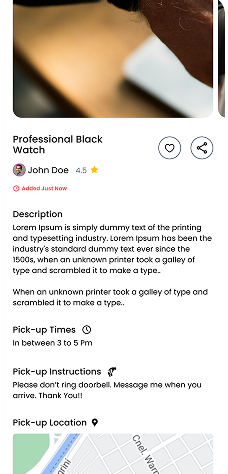
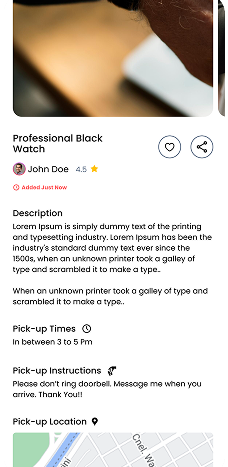
final update

diff --git a/assets/js/main.js b/assets/js/main.js
@@ -1,11 +1,14 @@
 $(document).ready(function () {
-    $('.center').slick({
+    let slider = $('.center');
+
+    slider.slick({
         centerMode: true,
         arrows: true,
         dots: true,
         autoplay: true,
         autoplaySpeed: 3000,
         slidesToShow: 5,
+        infinite: true,
         responsive: [
             {
                 breakpoint: 1024,
@@ -26,31 +29,33 @@ $(document).ready(function () {
         ]
     });
 
-    // Function to update timer
+    let timerElement = $('<div class="slider-timer">3s</div>');
+    $('.mobilescreenslider').append(timerElement);
+
+    let interval;
     function startSliderTimer() {
-        let timeLeft = 3; // Start from 3 seconds
-        let timerElement = $('<div class="slider-timer">3s</div>');
+        let timeLeft = 3; // Start from 3s
+        $('.slider-timer').text(timeLeft + "s");
 
-        // Append timer to the current active slide
-        $('.mobilescreenslider').append(timerElement);
-
-        let interval = setInterval(() => {
+        interval = setInterval(() => {
             timeLeft--;
-            if (timeLeft <= 0) {
-                timeLeft = 3; // Reset timer after 3s
+            if (timeLeft < 0) {
+                clearInterval(interval); // Stop countdown at 0
+                slider.slick('slickNext'); // Move to the next slide manually
+                return;
             }
             $('.slider-timer').text(timeLeft + "s");
         }, 1000);
-
-        $('.center').on('beforeChange', function () {
-            clearInterval(interval); // Stop old timer
-            $('.slider-timer').remove(); // Remove old timer
-        });
-
-        $('.center').on('afterChange', function () {
-            startSliderTimer(); // Restart timer for new slide
-        });
     }
 
-    startSliderTimer(); // Start on load
+    slider.on('beforeChange', function () {
+        clearInterval(interval); // Stop old timer
+        $('.slider-timer').text("0s"); // Stay at 0s during slide transition
+    });
+
+    slider.on('afterChange', function () {
+        startSliderTimer(); // Restart timer for new slide
+    });
+
+    startSliderTimer(); // Start on page load
 });

diff --git a/assets/css/custombootstrap.css b/assets/css/custombootstrap.css
@@ -244,6 +244,7 @@ body {
 
 .center .image-wrapper {
     transform: scale(.85);
+
 }
 
 .center .image-wrapper::after {
@@ -254,14 +255,19 @@ body {
     right: 0;
     bottom: 0;
     background: rgba(0, 0, 0, 0.1);
-    border-radius: 10px;
+    border-radius: 22px;
     z-index: 1;
     transition: all 300ms ease;
 }
 
 .center .slick-center .image-wrapper {
-    transform: scale(1);
-
+    transform: scale(.95);
+    border-radius: 22px;
+    box-shadow: 0 0 5px 5px rgba(0, 0, 0, 0.1);
+    /* Shadow on all sides with 5px width */
+    transition: transform 0.3s ease;
+    z-index: 1000;
+    /* Optional: Add a smooth transition for scaling */
 }
 
 .center .slick-center .image-wrapper::after {
